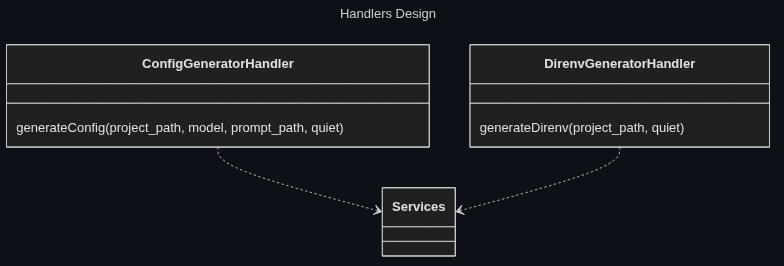
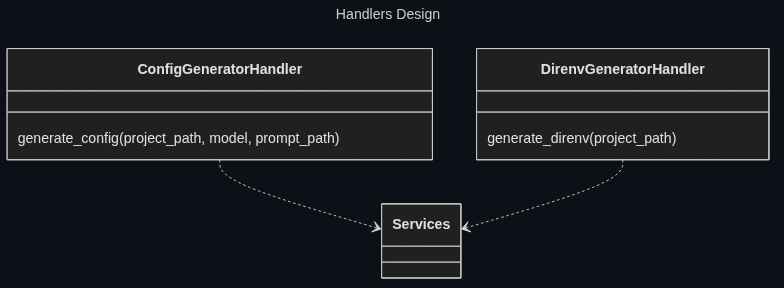
docs: update mermaid graphs by removing defaults from most methods

diff --git a/docs/introduction.md b/docs/introduction.md
@@ -60,5 +60,7 @@ The following models have been tested during the projects development:
 - temp
 - temp
 
+<!-- TODO check module name casing convention in mermaid graphs -->
+
 [Back to index](./index.md) |
 [Next Chapter](./requirements.md) |
